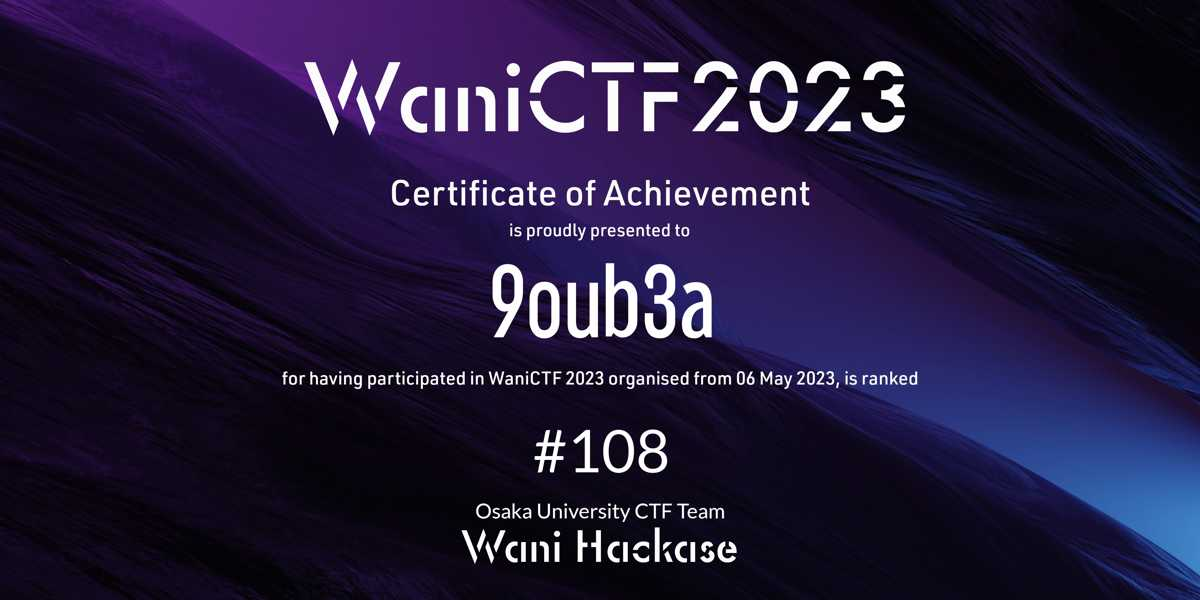
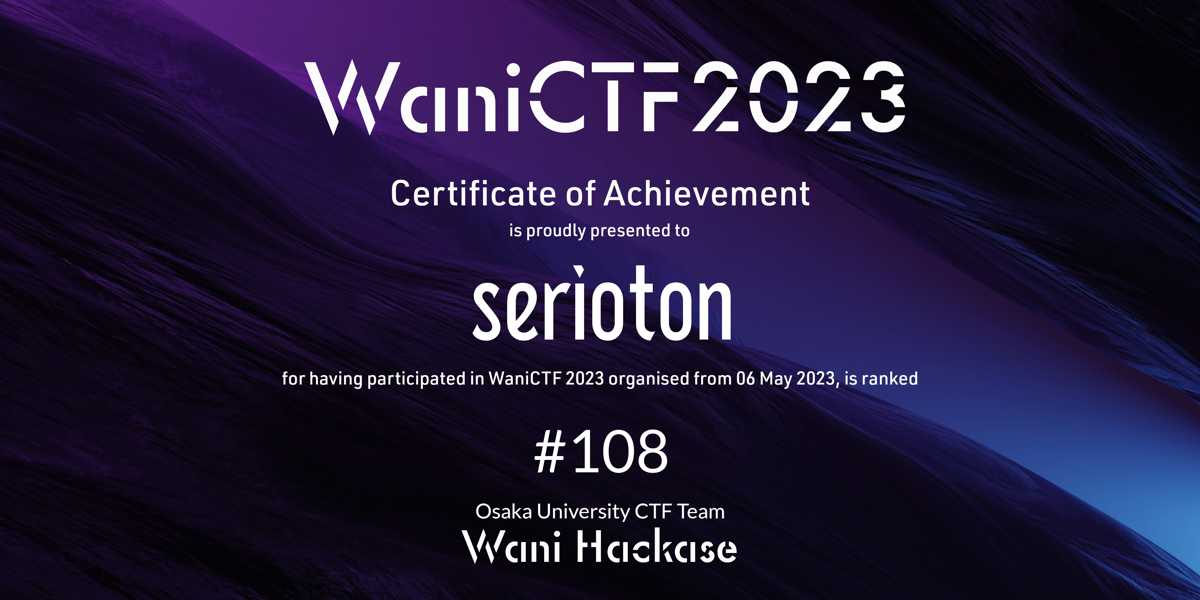
Update some teams' name

Changed region(s): [[0.37, 0.42, 0.6167, 0.57]]

diff --git a/2023/rev.html b/2023/rev.html
@@ -413,7 +413,7 @@
           </tr>
           <tr>
             <th scope="ro">32</th>
-            <td>Hasaki</td>
+            <td>MadrHacks</td>
             <td>1002</td>
             <td>              <span class="color-reversing">
                 <i class="fas fa-medal"></i>
@@ -815,7 +815,7 @@
           </tr>
           <tr>
             <th scope="ro">87</th>
-            <td>9oub3a</td>
+            <td>serioton</td>
             <td>607</td>
             <td></td>
           </tr>
@@ -1007,7 +1007,7 @@
           </tr>
           <tr>
             <th scope="ro">119</th>
-            <td>e^iπ+1day</td>
+            <td>lebr0nli</td>
             <td>567</td>
             <td></td>
           </tr>

diff --git a/2023/cry.html b/2023/cry.html
@@ -404,7 +404,7 @@
           </tr>
           <tr>
             <th scope="ro">31</th>
-            <td>Hasaki</td>
+            <td>MadrHacks</td>
             <td>1086</td>
             <td>              <span class="color-crypto">
                 <i class="fas fa-medal"></i>
@@ -983,7 +983,7 @@
           </tr>
           <tr>
             <th scope="ro">125</th>
-            <td>e^iπ+1day</td>
+            <td>lebr0nli</td>
             <td>576</td>
             <td></td>
           </tr>
@@ -1085,7 +1085,7 @@
           </tr>
           <tr>
             <th scope="ro">142</th>
-            <td>9oub3a</td>
+            <td>serioton</td>
             <td>576</td>
             <td></td>
           </tr>

diff --git a/2023/pwn.html b/2023/pwn.html
@@ -197,7 +197,7 @@
           </tr>
           <tr>
             <th scope="ro">8</th>
-            <td>Hasaki</td>
+            <td>MadrHacks</td>
             <td>1770</td>
             <td>              <span class="color-pwnable">
                 <i class="fas fa-medal"></i>
@@ -347,7 +347,7 @@
           </tr>
           <tr>
             <th scope="ro">29</th>
-            <td>e^iπ+1day</td>
+            <td>lebr0nli</td>
             <td>1420</td>
             <td></td>
           </tr>
@@ -1247,7 +1247,7 @@
           </tr>
           <tr>
             <th scope="ro">179</th>
-            <td>9oub3a</td>
+            <td>serioton</td>
             <td>430</td>
             <td></td>
           </tr>

diff --git a/2023/web.html b/2023/web.html
@@ -215,7 +215,7 @@
           </tr>
           <tr>
             <th scope="ro">10</th>
-            <td>Hasaki</td>
+            <td>MadrHacks</td>
             <td>1613</td>
             <td>              <span class="color-web">
                 <i class="fas fa-medal"></i>
@@ -329,7 +329,7 @@
           </tr>
           <tr>
             <th scope="ro">23</th>
-            <td>e^iπ+1day</td>
+            <td>lebr0nli</td>
             <td>1368</td>
             <td></td>
           </tr>
@@ -1211,7 +1211,7 @@
           </tr>
           <tr>
             <th scope="ro">170</th>
-            <td>9oub3a</td>
+            <td>serioton</td>
             <td>420</td>
             <td></td>
           </tr>

diff --git a/2023/index.html b/2023/index.html
@@ -306,7 +306,7 @@
               </span>
               5
             </th>
-            <td>Hasaki</td>
+            <td>MadrHacks</td>
             <td>7295</td>
             <td>
                           <span class="color-crypto">
@@ -1350,7 +1350,7 @@
               </span>
               41
             </th>
-            <td>e^iπ+1day</td>
+            <td>lebr0nli</td>
             <td>4510</td>
             <td>
             </td>
@@ -2928,7 +2928,7 @@
               </span>
               108
             </th>
-            <td>9oub3a</td>
+            <td>serioton</td>
             <td>2885</td>
             <td>
                           <span class="color-forensics">

diff --git a/2023/mis.html b/2023/mis.html
@@ -251,7 +251,7 @@
           </tr>
           <tr>
             <th scope="ro">14</th>
-            <td>Hasaki</td>
+            <td>MadrHacks</td>
             <td>1097</td>
             <td></td>
           </tr>
@@ -455,7 +455,7 @@
           </tr>
           <tr>
             <th scope="ro">48</th>
-            <td>e^iπ+1day</td>
+            <td>lebr0nli</td>
             <td>579</td>
             <td></td>
           </tr>
@@ -1637,7 +1637,7 @@
           </tr>
           <tr>
             <th scope="ro">245</th>
-            <td>9oub3a</td>
+            <td>serioton</td>
             <td>125</td>
             <td></td>
           </tr>

diff --git a/2023/for.html b/2023/for.html
@@ -431,7 +431,7 @@
           </tr>
           <tr>
             <th scope="ro">34</th>
-            <td>Hasaki</td>
+            <td>MadrHacks</td>
             <td>727</td>
             <td>              <span class="color-forensics">
                 <i class="fas fa-medal"></i>
@@ -719,7 +719,7 @@
           </tr>
           <tr>
             <th scope="ro">66</th>
-            <td>9oub3a</td>
+            <td>serioton</td>
             <td>727</td>
             <td>              <span class="color-forensics">
                 <i class="fas fa-medal"></i>
